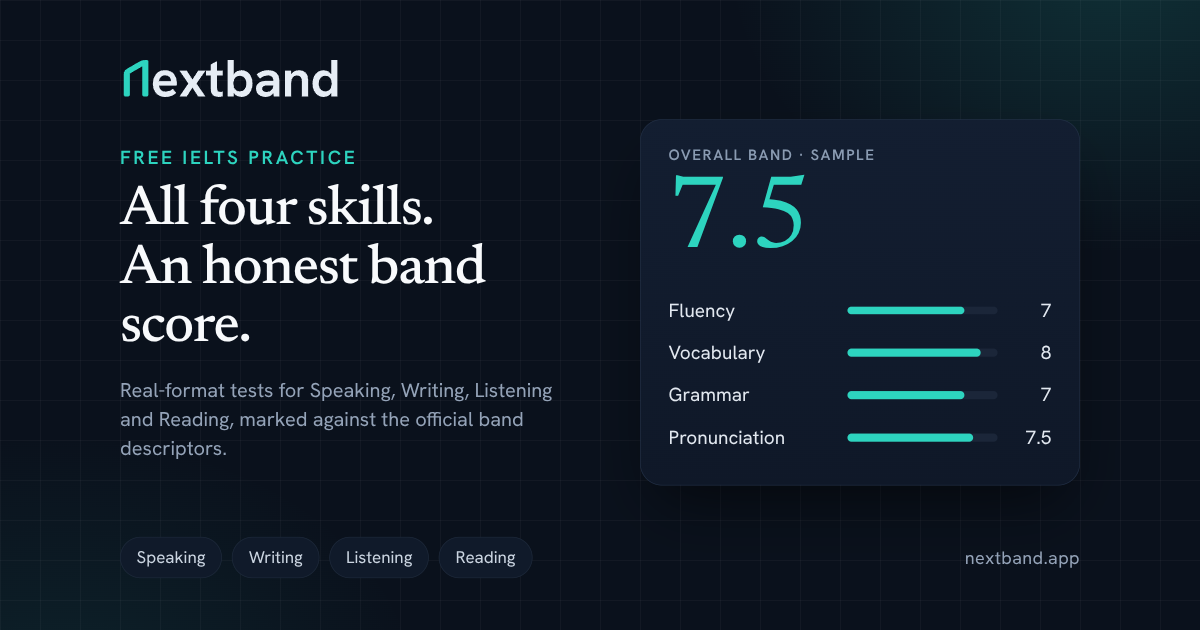
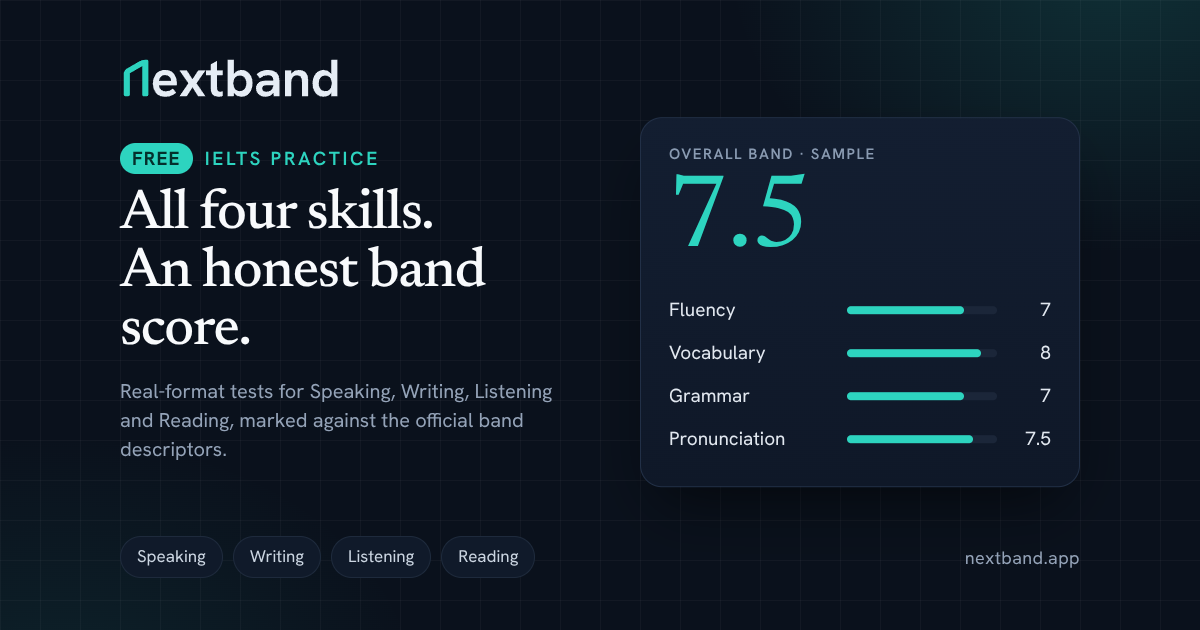
feat(seo): Free badge on every share card, band strip on the landing card
- Filled Free pill before each kicker; landing adds 'no card needed'
- Landing card gets the hero's band slip as a strip: four skills marked, overall still ?.?
- og:image URLs bumped to ?v=3

diff --git a/packages/core/src/seo.ts b/packages/core/src/seo.ts
@@ -10,7 +10,7 @@ const DEFAULT: PageMeta = {
   title: `${SITE_NAME}: ${SITE_TAGLINE}`,
   description:
     'Free IELTS practice for Speaking, Writing, Listening and Reading. Timed real-format tests, an AI examiner and a band for every criterion, each mistake marked.',
-  image: '/og/home.png?v=2',
+  image: '/og/home.png?v=3',
   index: true,
 };
 
@@ -20,36 +20,36 @@ const PAGES: Record<string, Omit<PageMeta, 'index'>> = {
     title: `Free IELTS practice tests with band scores | ${SITE_NAME}`,
     description:
       'Free IELTS practice tests for Listening, Reading, Writing and Speaking, with an AI examiner and a band for every criterion. Each mistake marked, made in Bangladesh.',
-    image: '/og/landing.png?v=2',
+    image: '/og/landing.png?v=3',
   },
   '/speaking': {
     title: `Free IELTS Speaking practice test with band score | ${SITE_NAME}`,
     description:
       'Free IELTS Speaking practice: Part 1, 2 and 3 with a live AI examiner or a recorded one. A band for each criterion, with every pause and mistake marked.',
-    image: '/og/speaking.png?v=2',
+    image: '/og/speaking.png?v=3',
   },
   '/writing': {
     title: `Free IELTS Writing Task 1 & 2 practice | ${SITE_NAME}`,
     description:
       'Free IELTS Writing Task 1 and Task 2 practice, Academic and General. A band for each criterion, every error marked with the fix, and a rewrite one band higher.',
-    image: '/og/writing.png?v=2',
+    image: '/og/writing.png?v=3',
   },
   '/listening': {
     title: `Free IELTS Listening practice tests online | ${SITE_NAME}`,
     description:
       'Free IELTS Listening practice tests with real-exam audio and timing. Instant score and band, the transcript at each answer, and spelling practice for misses.',
-    image: '/og/listening.png?v=2',
+    image: '/og/listening.png?v=3',
   },
   '/reading': {
     title: `Free IELTS Reading practice tests, Academic & GT | ${SITE_NAME}`,
     description:
       'Free IELTS Academic and General Training Reading tests. Instant band, where each answer sits in the passage, and True/False/Not Given analysis.',
-    image: '/og/reading.png?v=2',
+    image: '/og/reading.png?v=3',
   },
   '/bank': {
     title: `IELTS question bank: Speaking & Writing topics | ${SITE_NAME}`,
     description: 'Browse hundreds of IELTS Speaking cue cards, Part 1 and Part 3 topics, and Writing Task 1 and 2 questions free, and practise any of them.',
-    image: '/og/home.png?v=2',
+    image: '/og/home.png?v=3',
   },
   '/mock': {
     title: `Free full IELTS mock test online | ${SITE_NAME}`,

diff --git a/apps/server/src/seo.test.ts b/apps/server/src/seo.test.ts
@@ -6,7 +6,7 @@ const shell = '<head>\n<!--seo-->\n<title>x</title>\n<!--/seo-->\n</head>';
 it('writes each page its own title, share card and canonical URL; private pages are noindex', () => {
   const sp = renderShell(shell, '/speaking/', 'https://ielts.example');
   expect(sp).toContain('<title>Free IELTS Speaking practice test with band score | NextBand</title>');
-  expect(sp).toContain('<meta property="og:image" content="https://ielts.example/og/speaking.png?v=2" />');
+  expect(sp).toContain('<meta property="og:image" content="https://ielts.example/og/speaking.png?v=3" />');
   expect(sp).toContain('<link rel="canonical" href="https://ielts.example/speaking" />');
   expect(sp).toContain('content="index, follow, max-image-preview:large"');
   expect(sp).not.toContain('<title>x</title>');

diff --git a/apps/web/index.html b/apps/web/index.html
@@ -9,7 +9,7 @@
     <!--seo-->
     <title>NextBand: Free IELTS practice with instant band scores</title>
     <meta name="description" content="Practise IELTS Speaking, Writing, Listening and Reading online. Timed tests in the real exam format, an AI examiner, and band scores for every criterion with each mistake marked." />
-    <meta property="og:image" content="/og/home.png?v=2" />
+    <meta property="og:image" content="/og/home.png?v=3" />
     <!--/seo-->
     <meta name="application-name" content="NextBand" />
     <meta name="apple-mobile-web-app-title" content="NextBand" />
